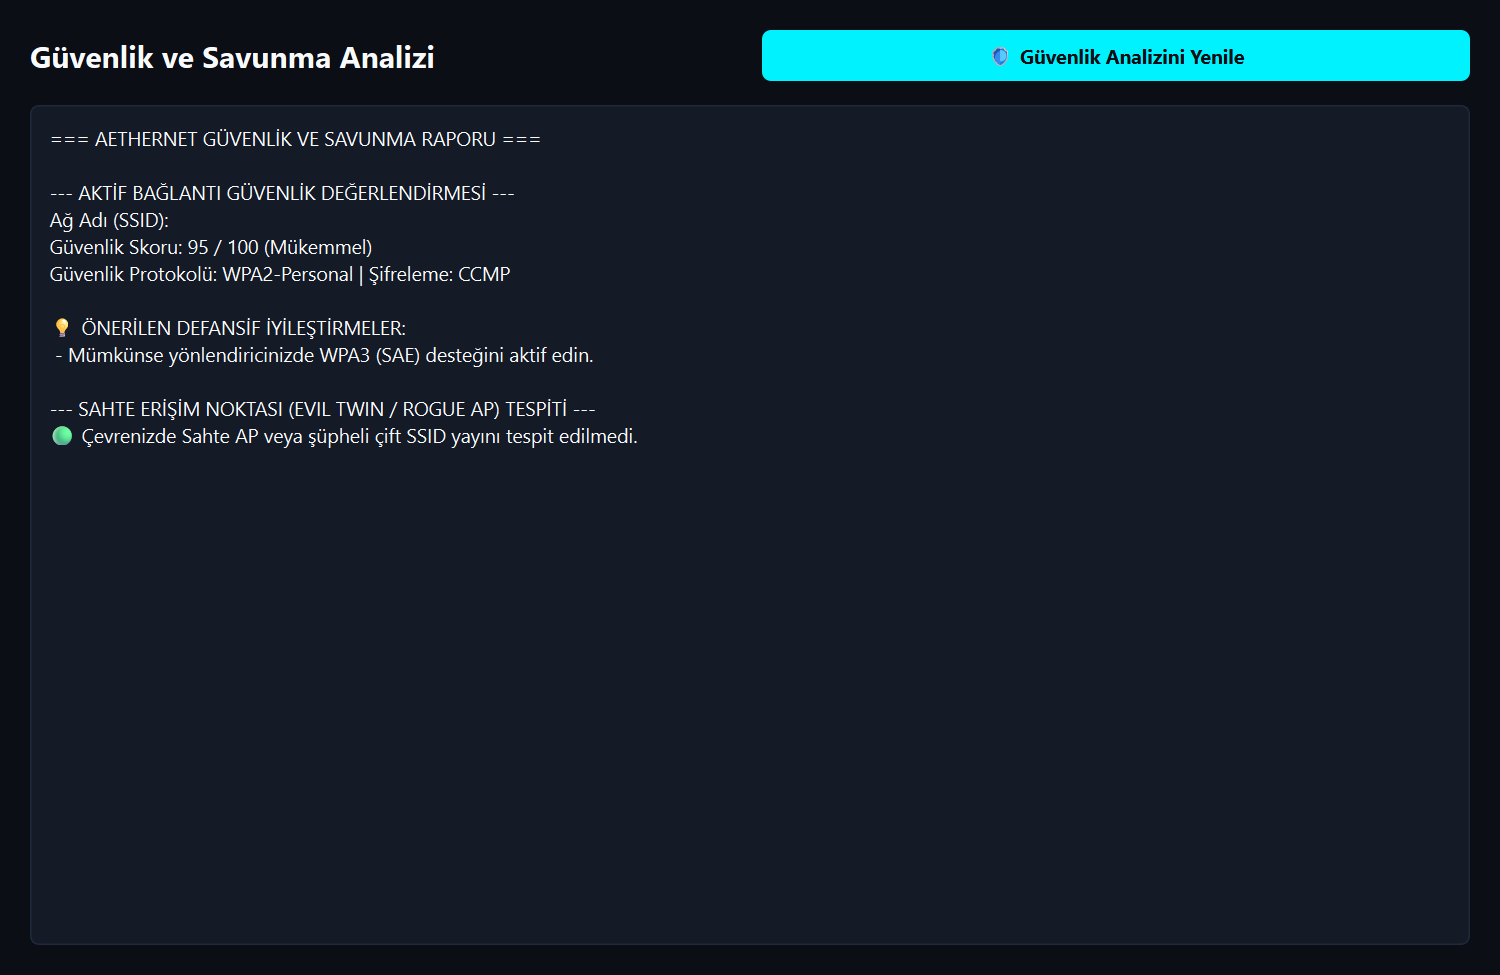
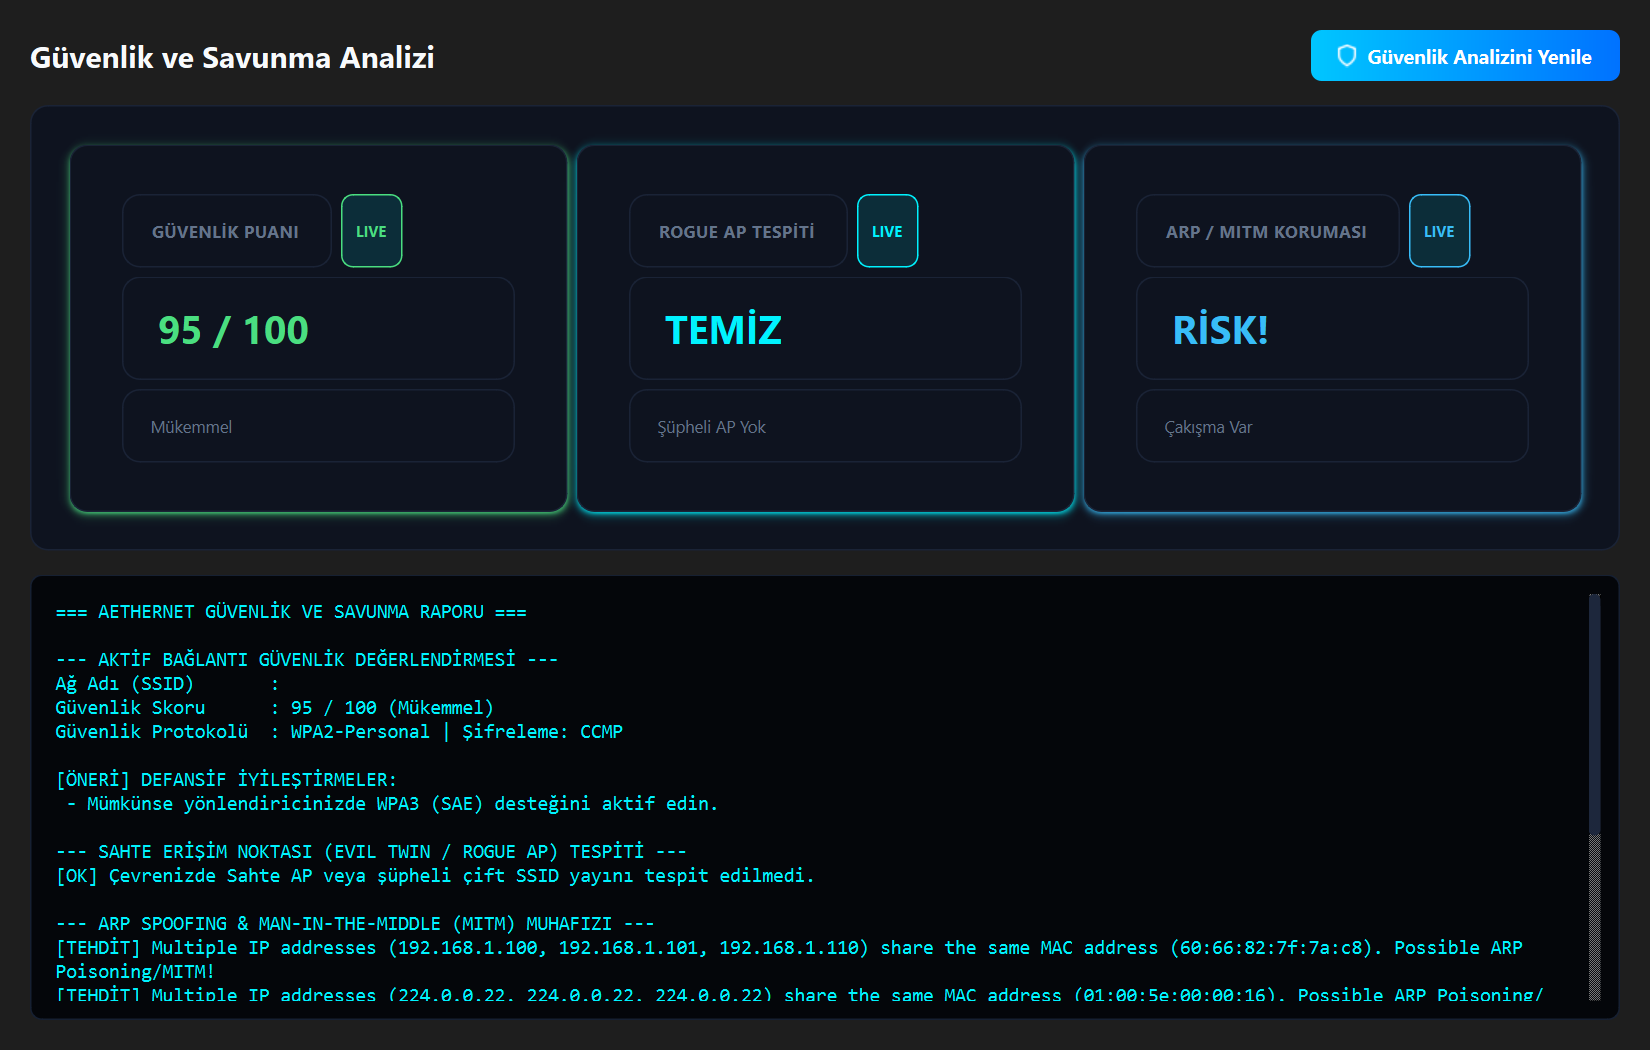
docs: Update README.md with TR and EN screenshot galleries, 48.2MB size badge, and comprehensive module documentation

diff --git a/scripts/capture_ui_screenshots.py b/scripts/capture_ui_screenshots.py
@@ -2,8 +2,6 @@ import sys
 import os
 from pathlib import Path
 from PySide6.QtWidgets import QApplication
-from PySide6.QtGui import QIcon
-from PySide6.QtCore import QSize, QEventLoop, QTimer
 
 # Add src directory to sys.path
 sys.path.insert(0, str(Path(__file__).parent.parent / "src"))
@@ -14,6 +12,8 @@ from aethernet.gui.views.dashboard_view import DashboardView
 from aethernet.gui.views.wifi_view import WifiView
 from aethernet.gui.views.tools_view import ToolsView
 from aethernet.gui.views.security_view import SecurityView
+from aethernet.gui.views.api_hub_view import APIHubView
+from aethernet.gui.views.pentest_view import PentestView
 from aethernet.gui.theme_manager import ThemeManager
 
 def capture_screenshots():
@@ -28,23 +28,28 @@ def capture_screenshots():
         ("wifi", WifiView),
         ("tools", ToolsView),
         ("security", SecurityView),
+        ("api_hub", APIHubView),
+        ("pentest", PentestView),
     ]
 
     for lang in ["tr", "en"]:
         i18n = I18nManager(lang)
         for name, cls in views_to_capture:
-            widget = cls(adapter, i18n)
+            try:
+                widget = cls(adapter, i18n)
+            except Exception as e:
+                print(f"Skipping {name} ({lang}): {e}")
+                continue
             widget.setStyleSheet(ThemeManager.get_theme_stylesheet("cyber_dark"))
-            widget.resize(1000, 650)
+            widget.resize(1100, 700)
             widget.show()
-            
-            # Allow Qt event loop to process layout & rendering
+
             app.processEvents()
 
             pixmap = widget.grab()
             out_file = screenshots_dir / f"{name}_{lang}.png"
             pixmap.save(str(out_file))
-            print(f"Captured screenshot: {out_file}")
+            print(f"[OK] Captured screenshot: {out_file}")
             widget.close()
 
 if __name__ == "__main__":

diff --git a/README.md b/README.md
@@ -2,9 +2,10 @@
 
 [![Python 3.11+](https://img.shields.io/badge/Python-3.11%2B-blue.svg)](https://www.python.org/)
 [![PySide6](https://img.shields.io/badge/GUI-PySide6%20%28Qt6%29-green.svg)](https://pypi.org/project/PySide6/)
+[![Executable Size](https://img.shields.io/badge/Executable-48.2%20MB-cyan.svg)](dist/AetherNet.exe)
 [![License](https://img.shields.io/badge/License-MIT-purple.svg)](LICENSE)
 
-> **AetherNet**, kablosuz ağ adaptörlerinizi, aktif bağlantılarınızı, kayıtlı profillerinizi ve çevrenizdeki WiFi ortamını eksiksiz görüntüleyip yönetmenizi sağlayan; aynı zamanda gelişmiş ağ tanılamaları, yerel cihaz envanteri, güvenlik/savunma analizleri, AI sağlayıcıları ve yetkilendirilmiş pentest araç entegrasyonlarını tek bir Cyber-Noir arayüzde birleştiren masaüstü ağ yönetim hub'ıdır.
+> **AetherNet**, kablosuz ağ adaptörlerinizi, aktif bağlantılarınızı, kayıtlı profillerinizi ve çevrenizdeki WiFi ortamını eksiksiz görüntüleyip yönetmenizi sağlayan; aynı zamanda gelişmiş ağ tanılamaları, yerel cihaz envanteri, harita & coğrafi konum istihbaratı, güvenlik/savunma analizleri, AI sağlayıcıları ve yetkilendirilmiş pentest araç entegrasyonlarını tek bir Cyber-Noir arayüzde birleştiren yüksek performanslı masaüstü ağ yönetim hub'ıdır.
 
 ---
 
@@ -19,6 +20,12 @@
 | Ağ Tanılama Araçları | Güvenlik & Savunma Analizi |
 | :---: | :---: |
 | ![Tools TR](assets/screenshots/tools_tr.png) | ![Security TR](assets/screenshots/security_tr.png) |
+
+| API Hub & Coğrafi Konum Haritası | Certified Pentest Orchestrator |
+| :---: | :---: |
+| ![API Hub TR](assets/screenshots/api_hub_tr.png) | ![Pentest TR](assets/screenshots/pentest_tr.png) |
+
+---
 
 ### 📋 İçindekiler
 
@@ -46,7 +53,7 @@ AetherNet, hem günlük kullanıcılar için *"WiFi'ım neden yavaş?"* veya *"A
 
 #### 2. 🔑 Kayıtlı WiFi Profilleri Yönetimi
 - **Profil Listesi**: Sistemde kayıtlı tüm WiFi ağlarının ve güvenlik tiplerinin listelenmesi.
-- **Parola Görüntüleme**: Yerel makinede kayıtlı ağ şifrelerinin yönetici izniyle güvenli şekilde görüntülenmesi.
+- **Parola Görüntüleme**: Yerel makinede kayıtlı ağ şifrelerinin yönetici izniyle güvenli şekilde görüntülenmesi ve ThreadPoolExecutor yüksek hızlı kurtarma.
 - **Profil Kontrolü**: Ağ bağlantısını tetikleme veya mevcut bağlantıyı kesme.
 
 #### 3. 🔍 Çevresel Ağ & Ortam Taraması
@@ -64,7 +71,7 @@ AetherNet, hem günlük kullanıcılar için *"WiFi'ım neden yavaş?"* veya *"A
 - **🔎 WHOIS & RDAP**: Alan adı kayıt süreleri, registrar ve kamuya açık IP coğrafi konum/ASN bilgileri.
 - **🔌 TCP Port Tarayıcı**: Yaygın ve özel portlar için çok izlekli (multithreaded) bağlantı testi.
 - **🔒 SSL/TLS Denetleyici**: Sertifika geçerliliği, bitiş tarihi, son gün sayısı, TLS versiyonu ve cipher paketleri.
-- **🚀 Bandwidth Speedtest**: İndirme, yükleme ve ping hızı ölçümü.
+- **🚀 Bandwidth Speedtest**: İndirme, yükleme ve ping hızı ölçümü (En yakın düşük gecikmeli sunucu düğümü seçimi ile).
 
 #### 6. 🛡 Güvenlik & Savunma Modülleri
 - **Ağ Güvenlik Skoru**: Şifreleme standartları, açık ağ riski ve WPS durumuna göre 0-100 arası güvenlik skoru.
@@ -79,14 +86,15 @@ AetherNet, hem günlük kullanıcılar için *"WiFi'ım neden yavaş?"* veya *"A
 - **Audit Logging**: Tüm tarama eylemlerinin zaman damgalı olarak `logs/audit.jsonl` dosyasına kaydedilmesi.
 
 #### 9. 🌐 External API & Tehdit İstihbaratı Hub'ı
-- **📍 IP Coğrafi Konum & Ağ İstihbaratı**: IP-API, IPify, DB-IP ve IP2Location sağlayıcıları üzerinden otomatik düşüşlü IP, ISP, ASN, coğrafi konum ve Proxy/VPN tespiti.
+- **📍 IP Coğrafi Konum & Siber Radar**: Yerel CyberMapCanvas ile hedefin enlem, boylam, hedef pingleme, radar taraması, şehir, ülke ve ISP haritası. İstenildiğinde canlı OpenStreetMap bağlantısı.
 - **🛡 Shodan & CISA KEV Tehdit İstihbaratı**: Kamusal Shodan InternetDB API ile IP açık port ve CVE zafiyet tespiti, ABD CISA Known Exploited Vulnerabilities canlı kataloğu.
 - **🔒 Şifreli DNS-over-HTTPS (DoH)**: Cloudflare, Google ve Quad9 üzerinden DNS-over-HTTPS şifreli sorgu testi ve Quad9 zararlı engelleme analizi.
-- **🌐 Kamusal API Explorer**: `public-apis/public-apis`, `freeapi.app` ve `freepublicapis.com` derlemesi 100+ kategorize edilmiş kamusal API dizini ve canlı arama.
+- **🌐 Kamusal API Explorer**: 100+ kategorize edilmiş kamusal API dizini ve canlı arama.
 
 #### 10. 🎨 PySide6 GUI & UX
-- **Cyber-Noir Dark Tema**: Neon vurgulara sahip modern QSS arayüz tasarımı.
+- **Cyber-Noir Dark & Aegis Violet Tema**: Neon vurgulara sahip modern QSS arayüz tasarımı.
 - **Çoklu Dil (i18n)**: Türkçe (Varsayılan), İngilizce, Almanca ve İspanyolca dil desteği.
+- **Yüksek Performans & Ultra Küçük Boyut**: Optimizasyonlu derleme ile yalnızca **48.2 MB** `.exe` boyutu.
 
 ---
 
@@ -96,9 +104,14 @@ AetherNet, hem günlük kullanıcılar için *"WiFi'ım neden yavaş?"* veya *"A
 AetherNet/
 ├── .env.example              # Örnek çevre değişkenleri dosyası
 ├── .gitignore                # Güvenli .gitignore yapılandırması
+├── AetherNet.spec            # PyInstaller optimizesi ve binary filtreleme spec dosyası
+├── build.bat                 # Otomatik tam temiz ve optimized derleme betiği
 ├── LICENSE                   # MIT Lisans belgesi
 ├── pyproject.toml            # Proje bağımlılıkları ve pytest ayarları
 ├── README.md                 # Çift dilli proje dokümantasyonu
+├── assets/
+│   ├── icon.ico              # Uygulama simgesi
+│   └── screenshots/          # TR & EN arayüz ekran görüntüleri
 ├── config/
 │   └── config.default.yaml   # Varsayılan konfigürasyon dosyası
 ├── src/
@@ -106,6 +119,7 @@ AetherNet/
 │       ├── __init__.py
 │       ├── main.py           # Uygulama giriş noktası
 │       ├── ai/               # Groq, Mistral, DeepSeek AI sağlayıcıları
+│       ├── api_hub/          # Shodan, DoH, IP Intel & CISA KEV motorları
 │       ├── core/             # Veri modelleri (models.py)
 │       ├── network_tools/    # Ping, DNS, WHOIS, PortScanner, Speedtest, SSL
 │       ├── discovery/        # ARP Discovery & MAC Vendor OUI resolver
@@ -114,9 +128,10 @@ AetherNet/
 │       ├── gui/              # PySide6 Arayüzü (ThemeManager, i18n, Views, Components)
 │       ├── platform/         # OS Soyutlama katmanı (windows.py)
 │       └── utils/            # Logger (loguru) & ConfigLoader
-├── tests/                    # Birim testleri
+├── tests/                    # Birim testleri (37/37 geçiyor)
 └── scripts/
-    └── build_exe.py          # PyInstaller derleme betiği
+    ├── build_exe.py          # PyInstaller spec tabanlı derleyici
+    └── capture_ui_screenshots.py # Otomatik ekran görüntüsü yakalayıcı
 ```
 
 ---
@@ -161,6 +176,11 @@ python src/aethernet/main.py
 pytest
 ```
 
+6. Optimized Executable (.exe) Derleyin (Çıktı: `dist/AetherNet.exe` - **48.2 MB**):
+```bash
+build.bat
+```
+
 ---
 
 ### 🔒 Güvenlik, Gizlilik ve Etik Onay
@@ -190,6 +210,12 @@ Bu proje **[MrSpy00](https://github.com/MrSpy00)** tarafından geliştirilmişti
 | :---: | :---: |
 | ![Tools EN](assets/screenshots/tools_en.png) | ![Security EN](assets/screenshots/security_en.png) |
 
+| API Hub & Geolocation Cyber Radar | Certified Pentest Orchestrator |
+| :---: | :---: |
+| ![API Hub EN](assets/screenshots/api_hub_en.png) | ![Pentest EN](assets/screenshots/pentest_en.png) |
+
+---
+
 ### 📋 Table of Contents
 
 1. [Project Vision](#-project-vision-1)
@@ -197,7 +223,7 @@ Bu proje **[MrSpy00](https://github.com/MrSpy00)** tarafından geliştirilmişti
 3. [Project Architecture and Directory Structure](#-project-architecture-and-directory-structure-1)
 4. [System Requirements and Installation](#-system-requirements-and-installation-1)
 5. [Security, Privacy and Ethical Compliance](#-security-privacy-and-ethical-compliance-1)
-6. [Developer & License](#-developer--license)
+6. [Developer & License](#-developer--license-1)
 
 ---
 
@@ -216,7 +242,7 @@ AetherNet is an all-in-one desktop network management hub designed to provide im
 
 #### 2. 🔑 Saved WiFi Profiles Management
 - **Profile Manager**: List saved WiFi profiles and security configurations.
-- **Password Revealer**: Securely view saved network passwords with administrative privileges.
+- **Password Revealer**: Securely view saved network passwords with administrative privileges using high-speed ThreadPoolExecutor loading.
 
 #### 3. 🔍 Wireless Environment & Congestion Scanner
 - **Live Environment Scanner**: List visible and hidden SSIDs/BSSIDs in the vicinity.
@@ -232,7 +258,7 @@ AetherNet is an all-in-one desktop network management hub designed to provide im
 - **🔎 WHOIS & RDAP**: Domain registration dates, registrar details, and IP geolocation/ASN data.
 - **🔌 TCP Port Scanner**: Multi-threaded TCP connect port scanner.
 - **🔒 SSL/TLS Inspector**: Audit SSL/TLS certificate validity, expiration dates, protocol versions, and ciphers.
-- **🚀 Bandwidth Speedtest**: Download, upload, and ping speed measurements.
+- **🚀 Bandwidth Speedtest**: Download, upload, and ping speed measurements with auto-selected lowest latency node.
 
 #### 6. 🛡 Security & Defense Modules
 - **Security Scorer**: Calculate a 0-100 security score based on encryption strength and WPS status.
@@ -246,9 +272,16 @@ AetherNet is an all-in-one desktop network management hub designed to provide im
 - **Tool Orchestration**: Subprocess orchestration layer for Nmap and Tshark.
 - **Audit Logging**: Time-stamped JSONL audit trail recorded in `logs/audit.jsonl`.
 
-#### 9. 🎨 PySide6 GUI & UX
-- **Cyber-Noir Dark Theme**: Sleek QSS desktop user interface featuring neon cyan accents.
+#### 9. 🌐 External API & Threat Intelligence Hub
+- **📍 Geolocation Radar & Cyber Map Canvas**: Native PySide6 CyberMapCanvas displaying target coordinates, radar pulse pin, city, country, ISP, and optional live OpenStreetMap link.
+- **🛡 Shodan & CISA KEV Intel**: Threat intelligence engine querying Shodan InternetDB and US CISA Known Exploited Vulnerabilities catalog.
+- **🔒 Encrypted DNS-over-HTTPS (DoH)**: Encrypted DoH testing via Cloudflare, Google, and Quad9.
+- **🌐 Public API Catalog**: 100+ categorized public APIs explorer.
+
+#### 10. 🎨 PySide6 GUI & UX
+- **Cyber-Noir Dark & Aegis Violet Themes**: Sleek QSS desktop user interface featuring neon cyan/purple accents.
 - **Multilingual Support (i18n)**: Native support for Turkish (Default), English, German, and Spanish.
+- **Ultra Compact Standalone Executable**: High-efficiency build resulting in a single **48.2 MB** binary (`dist/AetherNet.exe`).
 
 ---
 
@@ -258,9 +291,14 @@ AetherNet is an all-in-one desktop network management hub designed to provide im
 AetherNet/
 ├── .env.example              # Sample environment variables file
 ├── .gitignore                # Secure gitignore configuration
+├── AetherNet.spec            # PyInstaller spec file with binary filters
+├── build.bat                 # Automated clean build script
 ├── LICENSE                   # MIT License file
 ├── pyproject.toml            # Project dependencies and pytest config
 ├── README.md                 # Bilingual documentation
+├── assets/
+│   ├── icon.ico              # Application icon
+│   └── screenshots/          # TR & EN interface previews
 ├── config/
 │   └── config.default.yaml   # Default configuration file
 ├── src/
@@ -268,6 +306,7 @@ AetherNet/
 │       ├── __init__.py
 │       ├── main.py           # Application entry point
 │       ├── ai/               # Groq, Mistral, DeepSeek AI providers
+│       ├── api_hub/          # Shodan, DoH, IP Intel & CISA KEV engines
 │       ├── core/             # Data models (models.py)
 │       ├── network_tools/    # Ping, DNS, WHOIS, PortScanner, Speedtest, SSL
 │       ├── discovery/        # ARP Discovery & MAC Vendor OUI resolver
@@ -276,9 +315,10 @@ AetherNet/
 │       ├── gui/              # PySide6 GUI (ThemeManager, i18n, Views, Components)
 │       ├── platform/         # OS Abstraction layer (windows.py)
 │       └── utils/            # Logger (loguru) & ConfigLoader
-├── tests/                    # Unit tests
+├── tests/                    # Unit tests (37/37 passing)
 └── scripts/
-    └── build_exe.py          # PyInstaller build script
+    ├── build_exe.py          # PyInstaller spec-based builder
+    └── capture_ui_screenshots.py # Automated UI screenshot generator
 ```
 
 ---
@@ -321,6 +361,11 @@ python src/aethernet/main.py
 5. Run unit tests:
 ```bash
 pytest
+```
+
+6. Build Optimized Standalone Executable (Output: `dist/AetherNet.exe` - **48.2 MB**):
+```bash
+build.bat
 ```
 
 ---
